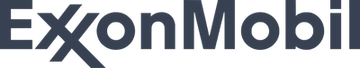
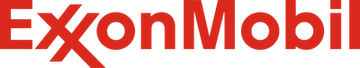
Дизайн: мельче текст на главном экране, прозрачная кнопка «Тіркелу», выше hero, новое фото сборной, фоновые полосы у разделов, ExxonMobil в фирменном красном
Claude-Session: https://claude.ai/code/session_017sjqiVnLZoUpYdtz3PvgYT

diff --git a/assets/css/style.css b/assets/css/style.css
@@ -1,6 +1,6 @@
 /* FIRST® Kazakhstan — оформление по образцу firstrobotics.kz */
 :root{
-  --tx:#111827;--bd:#3b4350;--mu:#4b5563;--lt:#6b7280;--line:#e5e7eb;
+  --band:#f5f7fb;--tx:#111827;--bd:#3b4350;--mu:#4b5563;--lt:#6b7280;--line:#e5e7eb;
   --blue:#2f6fed;--blue2:#bfd6f6;--gold:#d9733f;--gold2:#cf6634;--red:#e0514a;
   --cream:#f7e3d4;--cream2:#ecc9b2;--brown:#7a3f27;--brown2:#6a3320;--sky:#e9f1fc;--foot:#1c1c1c;
   --sh:0 1px 2px rgba(16,24,40,.06),0 2px 8px rgba(16,24,40,.06);--sh2:0 2px 10px rgba(16,24,40,.1);--r:16px;--rc:8px;
@@ -49,13 +49,14 @@ button,select,input{font:inherit;color:inherit}
 .btn.o:hover{background:#fff;border-color:#9aa3b2}
 
 /* ---------- первый экран ---------- */
-.hero{position:relative;min-height:calc(100vh - 172px);min-height:calc(100svh - 172px);display:flex;align-items:center;color:#fff;background:#0c1e36 url(../img/hero-2026.jpg) 50% 76%/cover no-repeat}
+.hero{position:relative;min-height:calc(100vh - 120px);min-height:calc(100svh - 120px);display:flex;align-items:center;color:#fff;background:#0c1e36 url(../img/hero-2026.jpg) 50% 76%/cover no-repeat}
 .hero:before{content:"";position:absolute;inset:0;background:linear-gradient(90deg,rgba(10,26,50,.5) 0%,rgba(10,26,50,.32) 55%,rgba(10,26,50,.14) 100%)}
 .hero h1,.hero p{text-shadow:0 1px 14px rgba(8,20,40,.35)}
-.hero .in{position:relative;width:100%;max-width:1312px;margin:0 auto;padding:90px 48px 110px}
-.hero h1{font-size:clamp(30px,3.2vw,48px);line-height:1.05;font-weight:800;text-transform:uppercase;max-width:960px;letter-spacing:-.005em}
-.hero .btn{margin-top:36px;text-shadow:none}
-.hero p{font-size:clamp(20px,2vw,30px);line-height:1.25;font-weight:400;margin-top:24px;max-width:900px;color:#fff}
+.hero .in{position:relative;width:100%;max-width:1312px;margin:0 auto;padding:110px 48px 130px}
+.hero h1{font-size:clamp(28px,2.8vw,42px);line-height:1.1;font-weight:700;text-transform:uppercase;max-width:960px;letter-spacing:-.005em}
+.hero .btn{margin-top:36px;text-shadow:none;background:rgba(255,255,255,.06);color:#fff;border:2px solid rgba(255,255,255,.85)}
+.hero .btn:hover{background:rgba(255,255,255,.16);border-color:#fff}
+.hero p{font-size:clamp(18px,1.6vw,24px);line-height:1.3;font-weight:400;margin-top:22px;max-width:900px;color:#fff}
 
 /* ---------- новый сезон ---------- */
 .season{padding:56px 0 0}
@@ -84,7 +85,7 @@ h2.t.ul:after,h1.t.ul:after{content:"";display:block;width:96px;height:2px;backg
 .ab figure{position:absolute;margin:0}
 .ab figure img{border-radius:16px;object-fit:cover;box-shadow:0 2px 10px rgba(16,24,40,.12);background:#e5e9f0}
 .ab .p1{left:3%;top:30px;width:67%}
-.ab .p1 img{width:100%;height:auto;aspect-ratio:7/5}
+.ab .p1 img{width:100%;height:auto;aspect-ratio:3/2;object-fit:cover}
 .ab .p2{right:7%;top:115px;width:36%}
 .ab .p2 img{width:100%;height:auto;aspect-ratio:5/6}
 .ab figcaption{position:absolute;padding:9px 22px;border-radius:var(--rc);background:#fff;color:#3b82f6;font-weight:700;font-size:24px;line-height:1.2;box-shadow:var(--sh2);white-space:nowrap}
@@ -126,7 +127,7 @@ h2.t.ul:after,h1.t.ul:after{content:"";display:block;width:96px;height:2px;backg
 .src a:hover{color:var(--tx)}
 
 /* достижения */
-#winners{padding-top:30px}
+#winners{padding:64px 0 90px;background:var(--band)}
 .wh{display:flex;align-items:center;gap:10px;margin-bottom:56px;color:var(--mu)}
 .wh svg{width:52px;height:52px;flex:none;fill:none;stroke:var(--mu);stroke-width:1.4;stroke-linecap:round;stroke-linejoin:round}
 .wh h3{font-size:24px;font-weight:600;color:var(--mu);line-height:1.2}
@@ -148,7 +149,7 @@ h2.t.ul:after,h1.t.ul:after{content:"";display:block;width:96px;height:2px;backg
 .ar:hover{border-color:#9aa3b2;background:#fff}
 
 /* FIRST түлектері */
-#alumni{padding-top:20px}
+#alumni{padding-top:20px;background:var(--band)}
 #alumni[hidden]{display:none}
 #alumni .wh{margin-bottom:12px}
 .alsub{margin:0 0 36px}
@@ -225,7 +226,7 @@ a.alc:focus-visible{outline:2px solid var(--blue);outline-offset:2px}
 .dl a:after{content:"";margin-left:auto;width:9px;height:9px;border-right:2px solid #9ca3af;border-top:2px solid #9ca3af;transform:rotate(45deg);flex:none}
 
 /* события */
-#events{padding-top:40px}
+#events{padding:64px 0 90px;background:var(--band)}
 .flt{display:flex;gap:16px;flex-wrap:wrap;margin:40px 0 24px}
 .flt select,.flt input{border:1px solid #e5e7eb;border-radius:var(--rc);padding:0 14px;height:40px;font-size:14px;font-weight:500;background:#fff;color:var(--tx)}
 .flt select{appearance:none;-webkit-appearance:none;width:auto;min-width:180px;max-width:280px;padding-right:34px;background:#fff var(--chev3) no-repeat right 14px center;cursor:pointer;text-overflow:ellipsis}
@@ -404,9 +405,9 @@ footer .cp{border-top:1px solid rgba(255,255,255,.1);margin-top:44px;padding-top
   body{font-size:16px}
   .w,.hero .in{padding-left:20px;padding-right:20px}
   .hero{min-height:0}
-  .hero .in{padding-top:140px;padding-bottom:90px}
-  .hero h1{font-size:clamp(22px,6.2vw,28px);line-height:1.2}
-  .hero p{font-size:17px;line-height:1.5;margin-top:18px}
+  .hero .in{padding-top:160px;padding-bottom:100px}
+  .hero h1{font-size:clamp(20px,5.6vw,26px);line-height:1.2}
+  .hero p{font-size:16px;line-height:1.5;margin-top:16px}
   .season{padding-top:76px}
   .sp{padding:52px 22px 32px;gap:22px;border-radius:18px}
   .sl{justify-content:center}
@@ -416,6 +417,7 @@ footer .cp{border-top:1px solid rgba(255,255,255,.1);margin-top:44px;padding-top
   .sx p{font-size:17px}
   .blinks a{font-size:15px}
   section{padding:56px 0}
+  #winners,#events{padding:48px 0 56px}
   #about{padding:70px 0 40px}
   .ab .col{height:min(360px,calc(106px + 44.4vw))}
   .ab .p1{width:67%;top:26px;left:0}

diff --git a/index.html b/index.html
@@ -13,7 +13,7 @@
 <link rel="preconnect" href="https://fonts.googleapis.com">
 <link rel="preconnect" href="https://fonts.gstatic.com" crossorigin>
 <link href="https://fonts.googleapis.com/css2?family=Inter:ital,wght@0,400;0,500;0,600;0,700;0,800;1,700;1,800&display=swap" rel="stylesheet">
-<link rel="stylesheet" href="assets/css/style.css?v=20261021o">
+<link rel="stylesheet" href="assets/css/style.css?v=20261021s">
 </head>
 <body>
 
@@ -68,7 +68,7 @@
 <section id="about">
   <div class="w two ab">
     <div class="col">
-      <figure class="p1"><img src="assets/img/team-kz-2026.jpg" alt="Сборная Казахстана" data-talt="cap1" width="1600" height="1143" loading="lazy"><figcaption data-t="cap1"></figcaption></figure>
+      <figure class="p1"><img src="assets/img/team-kz-fgc.jpg" alt="Сборная Казахстана" data-talt="cap1" width="1800" height="1200" loading="lazy"><figcaption data-t="cap1"></figcaption></figure>
       <figure class="p2"><img src="assets/img/ph3.jpg" alt="FIRST Tech Challenge" loading="lazy"><figcaption>FIRST Tech Challenge</figcaption></figure>
       <i class="fr" aria-hidden="true"></i>
     </div>
